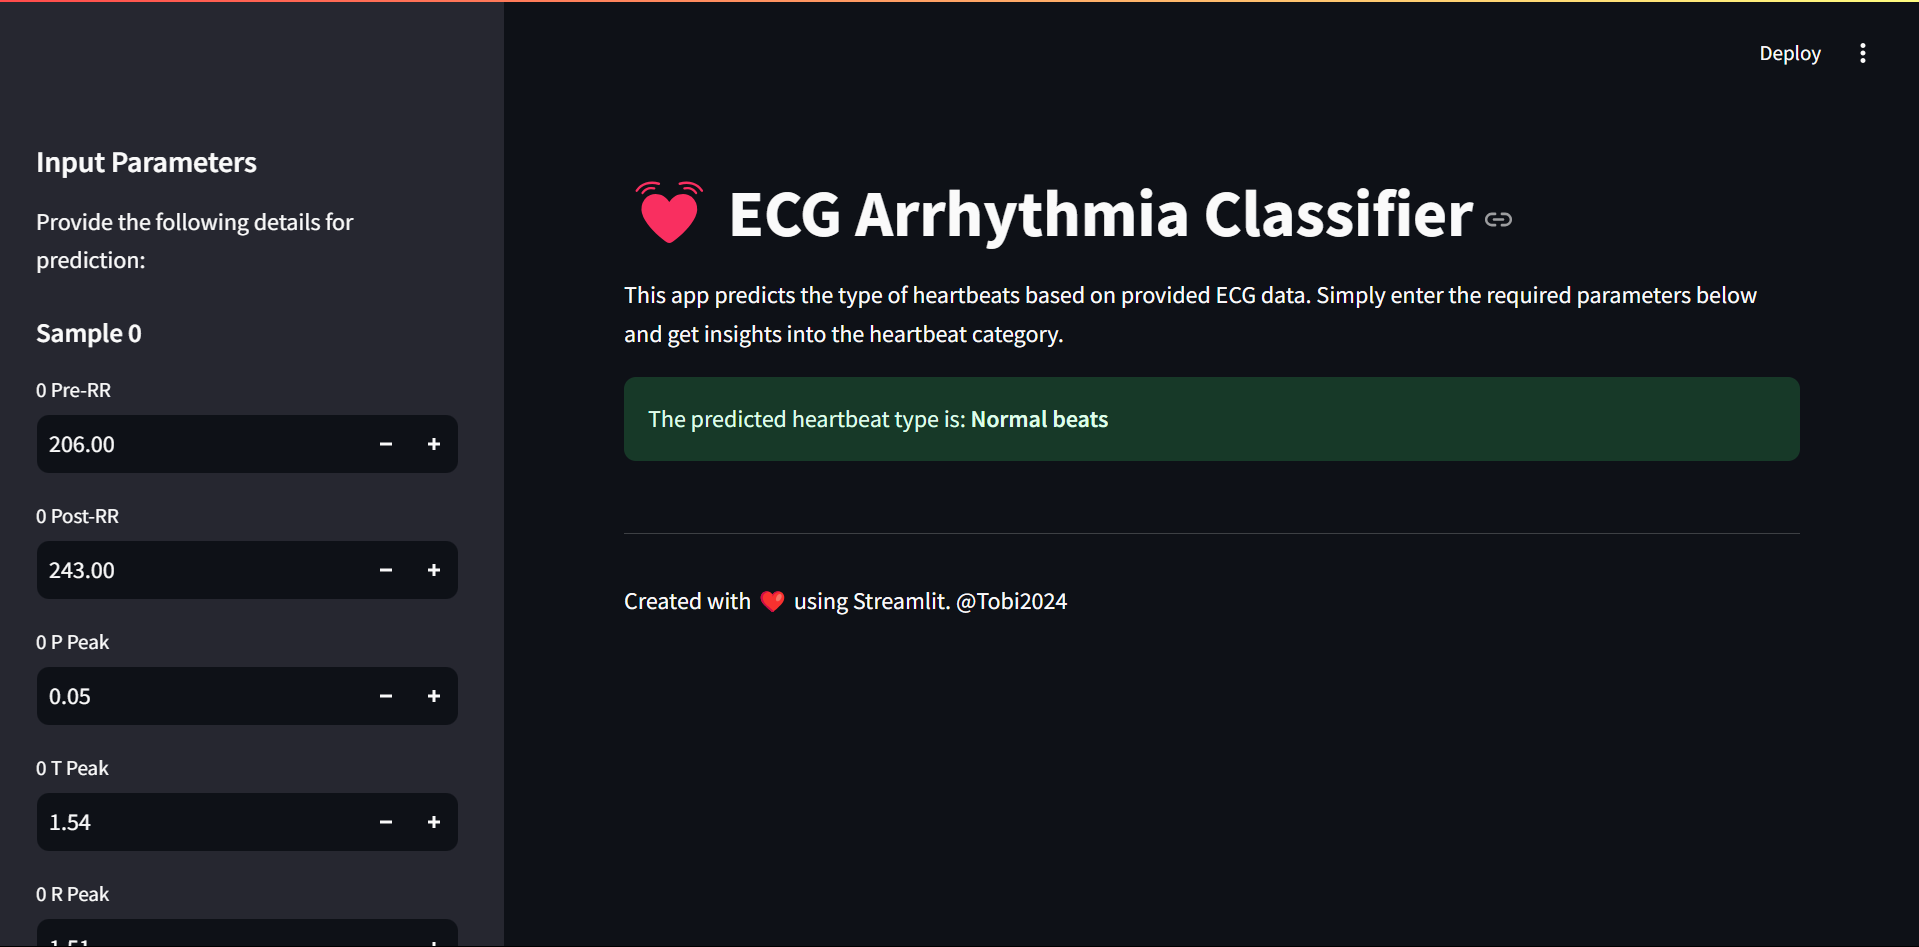
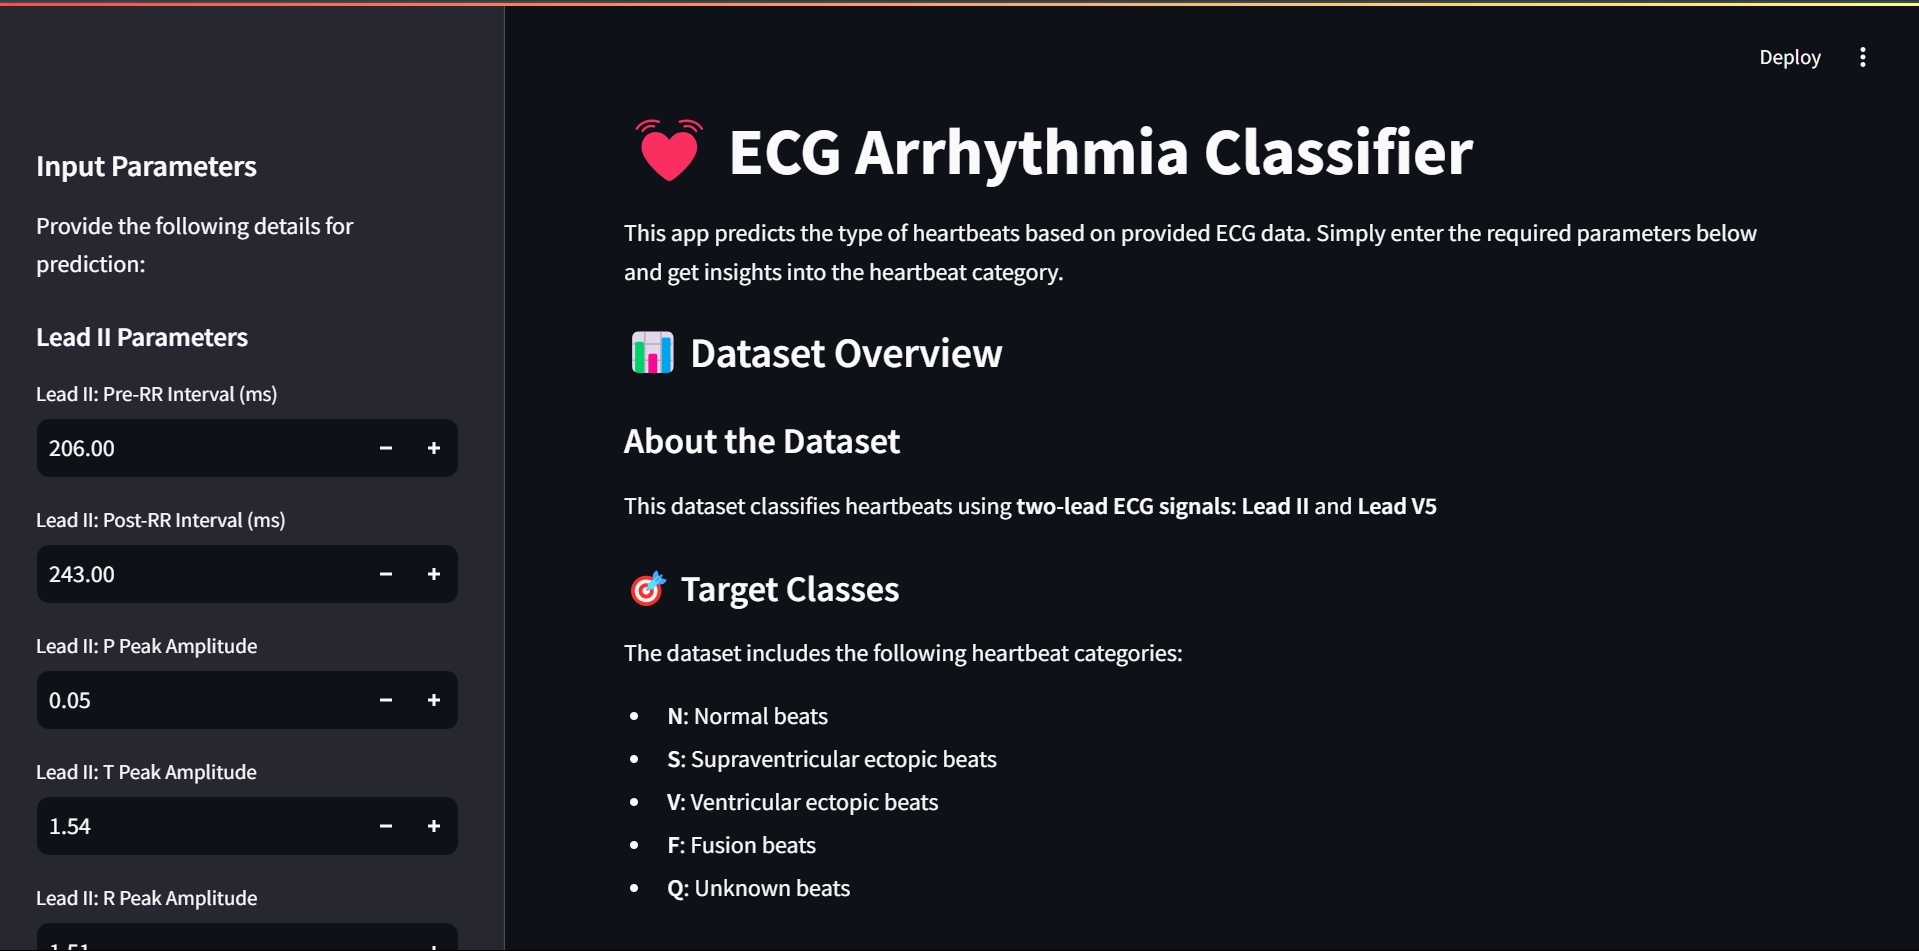
almost done

diff --git a/deployment/web_deployment/app.py b/deployment/web_deployment/app.py
@@ -2,6 +2,8 @@ import streamlit as st
 import pickle
 import numpy as np
 
+# Path to the trained model
+#model_path = 'model.pkl'
 model_path = 'deployment/web_deployment/model.pkl'
 
 # Load the trained model
@@ -32,6 +34,32 @@ This app predicts the type of heartbeats based on provided ECG data.
 Simply enter the required parameters below and get insights into the heartbeat category.
 """)
 
+# Dataset Overview
+st.markdown("### 📊 Dataset Overview")
+st.markdown("""
+#### About the Dataset  
+This dataset classifies heartbeats using **two-lead ECG signals**: **Lead II** and **Lead V5**
+
+#### 🎯 Target Classes  
+The dataset includes the following heartbeat categories:  
+- **N**: Normal beats  
+- **S**: Supraventricular ectopic beats  
+- **V**: Ventricular ectopic beats  
+- **F**: Fusion beats  
+- **Q**: Unknown beats  
+
+#### 🧬 Feature Descriptions  
+For each lead:  
+- **RR Interval**: Preceding and following R-to-R intervals (ms)  
+- **Peaks (P, Q, R, S, T)**: Amplitudes of respective waves  
+- **QRS Interval**: Duration of QRS complex (ms)  
+- **PQ Interval**: Time from atrial to ventricular depolarization (ms)  
+- **QT Interval**: Start of ventricular depolarization to end of repolarization (ms)  
+- **Morphology (QRS Morph Features 0–4)**: Morphological attributes of QRS complexes  
+
+This dataset provides a robust foundation for cardiac arrhythmia classification.
+""")
+
 # Input Fields
 st.sidebar.header("Input Parameters")
 st.sidebar.markdown("Provide the following details for prediction:")
@@ -39,24 +67,25 @@ st.sidebar.markdown("Provide the following details for prediction:")
 def get_user_input():
     input_data = {}
     for i in range(2):  # Adjust for the number of data rows you expect
-        st.sidebar.subheader(f"Sample {i}")
+        lead = "Lead II" if i == 0 else "Lead V5"
+        st.sidebar.subheader(f"{lead} Parameters")
         input_data.update({
-            f"{i}_pre-RR": st.sidebar.number_input(f"{i} Pre-RR", value=206.0),
-            f"{i}_post-RR": st.sidebar.number_input(f"{i} Post-RR", value=243.0),
-            f"{i}_pPeak": st.sidebar.number_input(f"{i} P Peak", value=0.047969956),
-            f"{i}_tPeak": st.sidebar.number_input(f"{i} T Peak", value=1.541606797),
-            f"{i}_rPeak": st.sidebar.number_input(f"{i} R Peak", value=1.509806577),
-            f"{i}_sPeak": st.sidebar.number_input(f"{i} S Peak", value=1.509806577),
-            f"{i}_qPeak": st.sidebar.number_input(f"{i} Q Peak", value=0.011090966),
-            f"{i}_qrs_interval": st.sidebar.number_input(f"{i} QRS Interval", value=9),
-            f"{i}_pq_interval": st.sidebar.number_input(f"{i} PQ Interval", value=3),
-            f"{i}_qt_interval": st.sidebar.number_input(f"{i} QT Interval", value=13),
-            f"{i}_st_interval": st.sidebar.number_input(f"{i} ST Interval", value=1),
-            f"{i}_qrs_morph0": st.sidebar.number_input(f"{i} QRS Morph 0", value=0.011090966),
-            f"{i}_qrs_morph1": st.sidebar.number_input(f"{i} QRS Morph 1", value=0.013109427),
-            f"{i}_qrs_morph2": st.sidebar.number_input(f"{i} QRS Morph 2", value=0.167740782),
-            f"{i}_qrs_morph3": st.sidebar.number_input(f"{i} QRS Morph 3", value=0.583400545),
-            f"{i}_qrs_morph4": st.sidebar.number_input(f"{i} QRS Morph 4", value=1.119587456)
+            f"{i}_pre-RR": st.sidebar.number_input(f"{lead}: Pre-RR Interval (ms)", value=206.0),
+            f"{i}_post-RR": st.sidebar.number_input(f"{lead}: Post-RR Interval (ms)", value=243.0),
+            f"{i}_pPeak": st.sidebar.number_input(f"{lead}: P Peak Amplitude", value=0.047969956),
+            f"{i}_tPeak": st.sidebar.number_input(f"{lead}: T Peak Amplitude", value=1.541606797),
+            f"{i}_rPeak": st.sidebar.number_input(f"{lead}: R Peak Amplitude", value=1.509806577),
+            f"{i}_sPeak": st.sidebar.number_input(f"{lead}: S Peak Amplitude", value=1.509806577),
+            f"{i}_qPeak": st.sidebar.number_input(f"{lead}: Q Peak Amplitude", value=0.011090966),
+            f"{i}_qrs_interval": st.sidebar.number_input(f"{lead}: QRS Interval (ms)", value=9),
+            f"{i}_pq_interval": st.sidebar.number_input(f"{lead}: PQ Interval (ms)", value=3),
+            f"{i}_qt_interval": st.sidebar.number_input(f"{lead}: QT Interval (ms)", value=13),
+            f"{i}_st_interval": st.sidebar.number_input(f"{lead}: ST Interval (ms)", value=1),
+            f"{i}_qrs_morph0": st.sidebar.number_input(f"{lead}: QRS Morph 0", value=0.011090966),
+            f"{i}_qrs_morph1": st.sidebar.number_input(f"{lead}: QRS Morph 1", value=0.013109427),
+            f"{i}_qrs_morph2": st.sidebar.number_input(f"{lead}: QRS Morph 2", value=0.167740782),
+            f"{i}_qrs_morph3": st.sidebar.number_input(f"{lead}: QRS Morph 3", value=0.583400545),
+            f"{i}_qrs_morph4": st.sidebar.number_input(f"{lead}: QRS Morph 4", value=1.119587456)
         })
     return input_data
 

diff --git a/README.md b/README.md
@@ -4,9 +4,7 @@
 
 Hey there! 👋 Welcome to my machine learning project, where I'm working on classifying arrhythmias using ECG signals. This project explores how artificial intelligence can assist in detecting and classifying cardiac conditions with precision.
 
-The entire pipeline is designed to be reproducible and scalable, so you can easily follow along and replicate the results on your machine or in the cloud.✨
-
-I’ve used ECG signal data and built an end-to-end machine learning solution using tools like MLflow, Flask, Docker etc
+The entire pipeline is designed to be reproducible and scalable, so you can easily follow along and replicate the results on your machine or in the cloud.✨ I’ve used a dataset containing ECG signal data and built an end-to-end machine learning solution using tools like Streamlit, Flask, Docker etc
 
 The goal? Help healthcare professionals detect and classify arrhythmias more accurately, improving patient care with the power of AI.
 
@@ -16,18 +14,16 @@ Arrhythmias are irregular heartbeats that can be harmless or life-threatening, d
 
 ### **Objective**
 
-This project aims to develop a machine learning model that classifies arrhythmias based on ECG signal features. By doing so, healthcare providers can detect these conditions with greater precision and speed.
+This project aims to develop a machine learning model that classifies arrhythmias based on ECG signal features.
 
 ### 📊 **Dataset**
 
-This project uses an ECG dataset from Kaggle, which is based on the **MIT-BIH Arrhythmia Dataset** from PhysioNet. The dataset contains essential features derived from two-lead ECG signals, which are used to train the arrhythmia classification model.
+This project uses an ECG dataset from Kaggle, which is based on the **MIT-BIH Arrhythmia Dataset** from PhysioNet. The dataset contains essential features derived from two-lead ECG signals(lead II and lead V5), which are used to train the arrhythmia classification model.
 
-- **Number of records**: 963654
+- **Number of records**: 460846
 - **Number of features**: 33
 
-For the model-building process, the dataset is preprocessed and stored in CSV files, ready for training and testing.
-
-For more detailed information about the dataset, including explanations of the columns, please refer to the [data/README.md](./data/README.md).
+For more detailed information about the dataset, including explanations of the columns, please refer to the [data folder](./data/README.md).
 
 Ready to see how AI can help detect arrhythmias and save lives? Let’s get started! ✨
 
@@ -45,15 +41,13 @@ You can check out the live version of the Streamlit app at the following URL:
 
 To bring this project to life, I used:
 
-- **Flask**
-- **Docker**
-- **Streamlit**
-
-This ensures the project is scalable, transparent, and easy to maintain.
+- **Containerization:** Docker and Docker Compose
+- **Web Application Framework (Local Deployment):** Flask (for local web deployment)
+- **Web Application Framework (Cloud Deployment):** Streamlit (for cloud-based web deployment)
 
 ## ✨ Setup
 
-#### **Local Setup**
+### **Local Setup**
 
 #### **Clone the Repository**:
 
@@ -110,9 +104,17 @@ cd ECG-Arrhythmia-Classifier
 - If you use `pipenv`, you do not need to install the `requirements.txt` dependencies manually because `pipenv` reads the `Pipfile` and manages the environment for you.
 - For Debian-based systems, using `sudo apt install pipenv` ensures compatibility with the system Python environment and avoids issues with the "externally managed environment" restriction.
 
-### Exploratory Data Analysis and Modeling
+## Exploratory Data Analysis and Modeling
 
-The exploratory data analysis and modeling are done in the [notebooks directory](notebooks/). The exploratory data analysis and model building are done in the `notebook.ipynb` notebook. The notebook directory also contains the model called `model.pkl`, where the model from the `notebook.ipynb` is stored.
+The exploratory data analysis and modeling are done in the [notebooks directory](notebooks/). The exploratory data analysis and model building are done in the `notebook.ipynb` notebook.
+
+The notebook directory also contains the model called `model.pkl`, where the model from the `notebook.ipynb` is stored.
+
+It also contains the training script (which contains the script for training the model with the best AUC) which you can run by running `python train.py` in the terminal
+
+```bash
+python train.py
+```
 
 ## Get Going
 
@@ -123,13 +125,21 @@ Ready to dive into your project? Here’s a quick guide to get you started.
 ### **Local Deployment**
 
 - **Tools Used**: Flask for building your web app and Docker for containerizing it.
-- **Where to Find It**: Head over to the [deployment](deployment) folder. This README covers everything you need to get your app running locally. It’s got the details for setting up Flask and Docker, so you can test things out on your own machine.
+- **Where to Find It**: Head over to the [deployment/local_deployment](deployment/local_deployment) folder.
+
+The README in that folder covers everything you need to get your app running locally.
+
+It’s got the details for setting up Flask and Docker, so you can test things out on your own machine.
 
 ### **Cloud Deployment**
 
-Tools Used: Streamlit community cloud for hosting your app and Streamlit for the web interface.
-Where to Find It: Navigate to the deployment/web_deployment folder. The README guides you through deploying your app using Streamlit. It’s perfect for getting your app live on the cloud.
+- **Tools Used**: Streamlit community cloud for hosting your app and Streamlit for the web interface.
+- **Where to Find It**: Navigate to the [deployment/web_deployment](deployment/web_deployment) folder.
+
+The README in that folder guides you through deploying your app using Streamlit. It’s perfect for getting your app live on the cloud.
 
 ## 🎉 Special Mentions
 
-A huge thank you to [DataTalks.Club](https://datatalks.club) for offering their ML course for free! 🌟 The insights and skills I gained from their course were crucial in developing this project. If you want to enhance your expertise in machine learning, I highly recommend checking out their [course](https://github.com/DataTalksClub/ml-zoomcamp). It’s an invaluable resource for diving into machine learning! 📚✨
+A huge thank you to [DataTalks.Club](https://datatalks.club) for offering their ML course for free! 🌟 The insights and skills I gained from their course were crucial in developing this project.
+
+If you want to enhance your expertise in machine learning, I highly recommend checking out their [course](https://github.com/DataTalksClub/machine-learning-zoomcamp). It’s an invaluable resource for diving into machine learning! 📚✨

diff --git a/data/README.md b/data/README.md
@@ -1,25 +1,27 @@
-### 📊 Dataset Overview
+# 📊 Dataset Overview
 
-#### About the Dataset
+### About the Dataset
 
-This project uses a dataset sourced from Kaggle, which focuses on ECG signal features for arrhythmia classification. The original dataset was derived from the MIT-BIH Arrhythmia Dataset hosted on PhysioNet. It contains features extracted from two-lead ECG signals (lead II and lead V5), focusing on detecting cardiac arrhythmias. The dataset includes programmatically extracted features critical for distinguishing regular and irregular heartbeats.
+This project uses a dataset sourced from Kaggle, which focuses on ECG signal features for arrhythmia classification. The original dataset was derived from the MIT-BIH Arrhythmia Dataset hosted on PhysioNet.
 
-#### 🔗 Dataset Sources
+It contains features extracted from **two-lead ECG signals (lead II and lead V5)**, focusing on detecting cardiac arrhythmias. The dataset includes programmatically extracted features critical for distinguishing regular and irregular heartbeats.
+
+## 🔗 Dataset Sources
 
 The dataset includes features from four ECG arrhythmia datasets:
 
-1. MIT-BIH Supraventricular Arrhythmia Database
-2. MIT-BIH Arrhythmia Database
-3. St. Petersburg INCART 12-lead Arrhythmia Database
+1. MIT-BIH Supraventricular Arrhythmia Database - MIT-BIH Supraventricular Arrhythmia Database.csv
+2. MIT-BIH Arrhythmia Database - MIT-BIH Arrhythmia Database.csv
+3. St. Petersburg INCART 12-lead Arrhythmia Database - INCART_Arrhythmia.csv
 4. Sudden Cardiac Death Holter Database
 
-we would be using the first 3 dataset for building the dataset
+we would be using the first 3 dataset for building the model
 
 > **Kaggle Dataset**: [ECG Arrhythmia Classification Dataset](https://www.kaggle.com/datasets/sadmansakib7/ecg-arrhythmia-classification-dataset/data)
 
 > **Original PhysioNet Dataset**: [MIT-BIH Arrhythmia Dataset](https://physionet.org/content/mitdb/1.0.0/)
 
-#### 🎯 Target Column
+## 🎯 Target Column
 
 The `type` column classifies heartbeats into:
 
@@ -29,7 +31,7 @@ The `type` column classifies heartbeats into:
 - **F**: Fusion beats
 - **Q**: Unknown beats
 
-#### 🧬 Column Descriptions
+## 🧬 Column Descriptions
 
 Below is a detailed description of the columns included in the dataset:
 
@@ -54,11 +56,11 @@ Below is a detailed description of the columns included in the dataset:
 
 **1_xxx : lead-V5**
 
-#### 🚀 Usage
+## 🚀 Usage
 
 This dataset is ideal for training machine learning models to classify cardiac arrhythmias. The consistent feature extraction across the datasets ensures comparability and robustness for predictive modeling.
 
-#### 📚 Citation
+## 📚 Citation
 
 1. **Original Dataset Paper**: [PhysioBank, PhysioToolkit, and PhysioNet: Components of a New Research Resource for Complex Physiologic Signals](http://ecg.mit.edu/george/publications/mitdb-embs-2001.pdf).
 2. **Feature Extraction and Methodology Paper**: [Harnessing Artificial Intelligence for Secure ECG Analytics at the Edge for Cardiac Arrhythmia Classification](https://www.taylorfrancis.com/chapters/edit/10.1201/9781003028635-11/harnessing-artificial-intelligence-secure-ecg-analytics-edge-cardiac-arrhythmia-classification-sadman-sakib-mostafa-fouda-zubair-md-fadlullah).

diff --git a/deployment/web_deployment/README.md b/deployment/web_deployment/README.md
@@ -1,6 +1,4 @@
-# ECG Arrhythmia Classifier
-
-## 🚀 Run Your App Locally with Docker
+## Run Your App Locally with Docker ✨
 
 Follow these steps to get your app running locally in a Docker container:
 
@@ -10,6 +8,8 @@ Follow these steps to get your app running locally in a Docker container:
 cd deployment/web_deployment
 ```
 
+**Please before you do this change the model path in the app.py to this `model.pkl` it might have been changed when deploying the app on streamlit cloud**
+
 ### 2⃣ Build the Docker Image
 
 Run the following command to build the Docker image:
@@ -17,6 +17,8 @@ Run the following command to build the Docker image:
 ```bash
 docker build -t streamlit-app:latest .
 ```
+
+**Pls make sure your bash is in this folder containing the dockerfile**
 
 ### 3⃣ Run the Docker Container
 
@@ -38,19 +40,14 @@ http://localhost:8501
 
 ## 🌍 Deploy the App for Free on Streamlit Community Cloud
 
+**Please before you do this change the model path in the app.py to this `deployment/web_deployment/model.pkl` streamlit does not regonize the model without giving this path**
+
 ### 1⃣ Prepare Your Repository
 
 Ensure your repository contains the following:
 
 - `app.py`: Your Streamlit app code.
 - `requirements.txt`: A file listing the required Python dependencies.
-  - Example:
-    ```txt
-    streamlit==1.25.0
-    numpy
-    pandas
-    scikit-learn
-    ```
 
 ### 2⃣ Push Your Code to GitHub
 
@@ -69,7 +66,7 @@ Commit and push your code to a GitHub repository.
 
 Once deployed, you’ll receive a unique URL for your app that you can share with others.
 
----
+the url for this app is : https://ecg-arrhythmia-classifier-vx8p25emabtee8b5qzjbt4.streamlit.app/
 
 ## 🎉 Enjoy Your App!
 

diff --git a/deployment/local_deployment/README.md b/deployment/local_deployment/README.md
@@ -1,6 +1,6 @@
 # Deploying Your Model Locally ✨
 
-Ready to get your model up and running locally? Follow these easy steps:
+Ready to get the model up and running locally? Follow these easy steps:
 
 ### **Create or Activate Your Pipenv Environment:**
 
@@ -19,7 +19,7 @@ pipenv install
 pipenv shell
 ```
 
-This ensures all the required dependencies are installed for your project. Check the `Pipfile` for a list of dependencies used.
+This ensures all the required dependencies are installed for your project. Check the `requirements.txt` for a list of dependencies used.
 
 ### **Package the App into Docker:**
 
@@ -28,6 +28,8 @@ The prediction script has been embedded into a Flask application and packed into
 ```bash
 docker build -t heart:v1 .
 ```
+
+**Pls make sure your bash is in this folder containing the dockerfile**
 
 ### **Run the Docker Container:**
 
@@ -41,6 +43,12 @@ This command will start the container and expose it on port `9696`. You can acce
 
 ### **Use the Flask App for Predictions:**
 
-To use the Flask app for predictions, you need to run `test.py`. you can change the content of the test.py to see the output for each value.
+To use the Flask app for predictions, you need to run `test.py`.
 
-Feel free to check the `test.py` file for more details on how the script and Flask app are set up. If you have any questions or need further assistance, just let me know. Happy deploying! 🎉
+```python
+python test.py
+```
+
+You can change the sample in the test.py to see the output for each value.
+
+Feel free to check the `predict.py` file for more details on how the script and Flask app are set up. If you have any questions or need further assistance, just let me know. Happy deploying! 🎉

diff --git a/notebooks/README.md b/notebooks/README.md
@@ -1,0 +1,24 @@
+## The models trained are:
+
+- LogisticRegression model
+- RandomForestClassifier
+- XGBClassifier
+
+The XGBClassifier has the best AUC score of 0.9910 on all the training dataset with the following hyperparameter:
+
+```python
+xgb_model = xgb.XGBClassifier(
+    objective='multi:softprob',
+    num_class=5,
+    max_depth=10,
+    learning_rate=0.2,
+    n_estimators=200,
+    colsample_bytree= 0.8,
+    subsample= 1.0,
+    random_state=42
+)
+```
+
+![Screenshot](../image/auc_score.png)
+
+You can also check the notebook.ipynb file to see the preprocessing done on the model to achieve this score.
